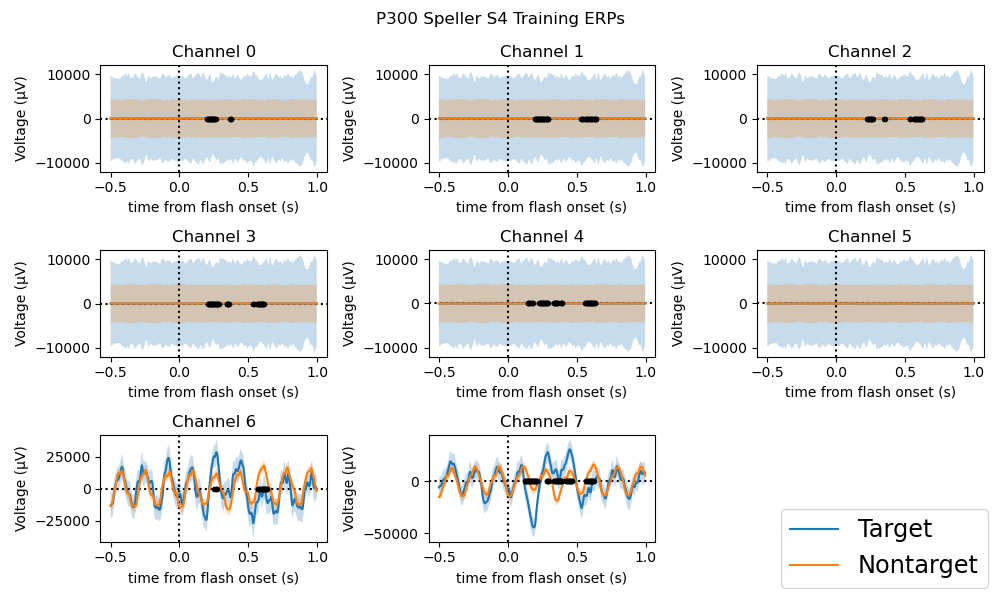
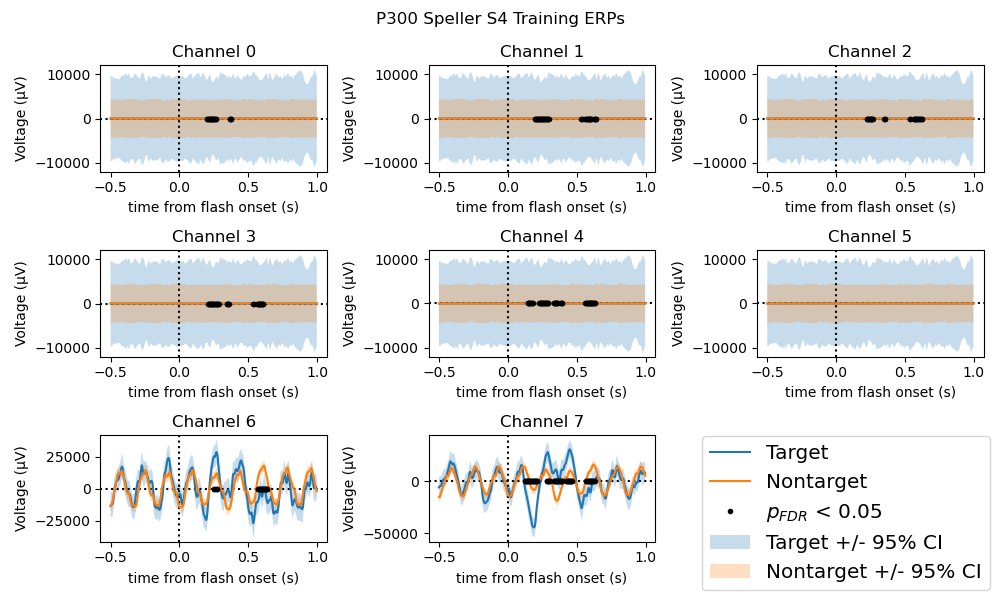
Significance data

Changed region(s): [[0.713, 0.72, 0.992, 0.99], [0.961, 0.84, 0.992, 0.87]]

diff --git a/plot_p300_data.py b/plot_p300_data.py
@@ -99,11 +99,11 @@ def plot_confidence_intervals(eeg_epochs, erp_times, target_erp, nontarget_erp, 
     
     # formatting
     figure.suptitle(f'P300 Speller S{subject} Training ERPs')
-    figure.legend(loc='lower right', fontsize='xx-large') # legend in space of nonexistent plot 9
+    figure.legend(loc='lower right', fontsize='x-large') # legend in space of nonexistent plot 9
     figure.tight_layout()  # stop axis labels overlapping titles
     
     # save image
-    plt.savefig(f'P300_S{subject}_channel_plots.png')  # save as image
+    plt.savefig(f'P300_S{subject}_channel_plots.png')
 
 #%% Part C: Bootstrap P Values
 
@@ -167,6 +167,8 @@ def plot_false_discovery_rate(eeg_epochs, erp_times, target_erp, nontarget_erp, 
     
     corrected_p_values = np.array(fdr_correction(p_values, alpha=fdr_threshold))
     
+    significant_times = [[] for _ in range(channel_count)]
+    
     # statistics calculated for given channel
     for channel_index in range(channel_count):
         
@@ -201,14 +203,16 @@ def plot_false_discovery_rate(eeg_epochs, erp_times, target_erp, nontarget_erp, 
         nontarget_handle, = channel_plot.plot(erp_times, nontarget_erp_transpose[channel_index])
         
         # generate times to plot
-        is_significant = np.array(np.where(corrected_p_values[0, :, channel_index] == 1))
-        significant_times = []
+        is_significant = np.array(np.where(corrected_p_values[0, :, channel_index] == 1)) # evaluate across all samples for a channel when  p_value < fdr_threshold is true
+        #significant_times = []
         for significant_index in is_significant[0]:
-            significant_times.append(erp_times[significant_index])
-        significant_count = len(np.array(significant_times))
+            #significant_times.append(erp_times[significant_index])
+            significant_times[channel_index].append(erp_times[significant_index])
+        significant_count = len(np.array(significant_times[channel_index]).T)
         
         # plot significant points
-        significance_handle, = channel_plot.plot(significant_times, np.zeros(significant_count), 'ko', markersize=3)
+        #significance_handle, = channel_plot.plot(significant_times, np.zeros(significant_count), 'ko', markersize=3)
+        significance_handle, = channel_plot.plot(np.array(significant_times[channel_index]), np.zeros(significant_count), 'ko', markersize=3)
         
         # plot confidence intervals
         target_confidence_interval_handle = channel_plot.fill_between(erp_times,target_erp_transpose[channel_index] - 2 * target_standard_error, target_erp_transpose[channel_index] + 2 * target_standard_error, alpha=0.25)
@@ -235,6 +239,8 @@ def plot_false_discovery_rate(eeg_epochs, erp_times, target_erp, nontarget_erp, 
     
     # save image
     plt.savefig(f'P300_S{subject}_channel_plots_with_significance.png')  # save as image
+    
+    return significant_times
 
 #%% Part E: Evaluate Across Subjects
 
@@ -250,7 +256,11 @@ def plot_false_discovery_rate(eeg_epochs, erp_times, target_erp, nontarget_erp, 
 # returns:
     # none?
 
-def multiple_subject_evaluation(subjects=np.arange(3,11), data_directory='P300Data/', epoch_start_time=-0.5, epoch_end_time=1.0, randomization_count=3000, fdr_threshold=0.05):
+def multiple_subject_evaluation(subjects=np.arange(3,11), data_directory='P300Data/', sample_count=384, channel_count=8, epoch_start_time=-0.5, epoch_end_time=1.0, randomization_count=3000, fdr_threshold=0.05):
+    
+    # preallocate array for editing with each subject
+    # set to empty list since necessary inputs obtained in subject loop for dynamic variables
+    subject_significance = np.zeros([channel_count, sample_count])
     
     for subject in subjects:
         
@@ -258,9 +268,6 @@ def multiple_subject_evaluation(subjects=np.arange(3,11), data_directory='P300Da
         is_target_event, eeg_epochs, erp_times, target_erp, nontarget_erp = load_erp_data(subject, data_directory, epoch_start_time, epoch_end_time)
         
         # bootstrapping
-        # declare necessary variables
-        sample_count = eeg_epochs.shape[1]
-        channel_count = eeg_epochs.shape[2]
 
         # preallocate arrays for resampled data 
         sampled_target_erp = np.zeros([randomization_count,sample_count,channel_count])
@@ -279,16 +286,60 @@ def multiple_subject_evaluation(subjects=np.arange(3,11), data_directory='P300Da
         p_values = calculate_p_values(sampled_target_erp, sampled_nontarget_erp,target_erp, nontarget_erp,randomization_count)
         
         # FDR correction and plotting
-        plot_false_discovery_rate(eeg_epochs, erp_times, target_erp, nontarget_erp, is_target_event, p_values, subject, fdr_threshold)
+        significant_times = plot_false_discovery_rate(eeg_epochs, erp_times, target_erp, nontarget_erp, is_target_event, p_values, subject, fdr_threshold)
         
-        # declare an array of zeros to determine significance
         # track number of subjects where a point in time is significant for each channel
         # do this with boolean indexing: true if the sample in time for that subject and channel is significant
         # use np.sum to track total, likely want (384,8) array
         # return the sum, take into next function
+        
+        # for significant_index in is_significant[0]:
+        #     significant_times.append(erp_times[significant_index])
+        # significant_count = len(np.array(significant_times))
+        
+        # add 1 to count at a sample index if a subject has a value for that time
+        # for a time in erp_times
+            # if that time is also in significant times
+                # add 1 to that time point in subject_significance
+        
+        for time_index in range(sample_count):
+            for channel_index in range(channel_count):
+                for i in range(len(significant_times[channel_index])):
+                    if significant_times[channel_index][i] == erp_times[time_index]:
+                        subject_significance[channel_index,time_index] = subject_significance[channel_index,time_index]+1
+                        
+    return erp_times, subject_significance
             
 
-#def subject_significance_plots():
+def plot_subject_significance(erp_times, subject_significance):
+    
+    channel_count = len(subject_significance)
+    
+    figure, channel_plots = plt.subplots(3,3, figsize=(10, 6), sharey=True)
+    
+    channel_plots[2][2].remove()  # only 8 channels, 9th plot unnecessary
+    
+    for channel_index in range(channel_count):
+        
+        row_index, column_index = divmod(channel_index, 3)  # wrap around to column 0 for every 3 plots
+        
+        channel_plot = channel_plots[row_index][column_index] # subplot
+        
+        channel_plot.plot(erp_times, subject_significance[channel_index])
+        
+        # label each plot's axes and channel number
+        channel_plot.set_title(f'Channel {channel_index}')
+        channel_plot.set_xlabel('time (s)')
+        channel_plot.set_ylabel('# subjects significant')
+        channel_plot.grid(True)
+    
+    # formatting
+    figure.suptitle('Number of Significant Subjects by Channel')
+    figure.tight_layout()  # stop axis labels overlapping titles
+    
+    # save image
+    plt.savefig('subject_significance_channel_plots.png')  
+        
 
 #%% Part F: Plot a Spatial Map
 

diff --git a/test_plot_p300_data.py b/test_plot_p300_data.py
@@ -9,7 +9,7 @@ Created on Tue Feb 13 10:03:54 2024
 #%% Import functions to be called
 
 import numpy as np
-from plot_p300_data import load_erp_data, plot_confidence_intervals, bootstrap_erps, test_statistic, calculate_p_values, plot_false_discovery_rate, multiple_subject_evaluation, plot_spatial_map
+from plot_p300_data import load_erp_data, plot_confidence_intervals, bootstrap_erps, test_statistic, calculate_p_values, plot_false_discovery_rate, multiple_subject_evaluation, plot_subject_significance, plot_spatial_map
 
 #%% Load data
 
@@ -48,10 +48,12 @@ p_values = calculate_p_values(sampled_target_erp, sampled_nontarget_erp,target_e
 
 #%% FDR correction
 
-plot_false_discovery_rate(eeg_epochs, erp_times, target_erp, nontarget_erp, is_target_event, p_values, subject=3, fdr_threshold = 0.05)
+significant_times = plot_false_discovery_rate(eeg_epochs, erp_times, target_erp, nontarget_erp, is_target_event, p_values, subject=3, fdr_threshold = 0.05)
 
 #%% Multiple subjects comparison
-#multiple_subject_evaluation(subjects=np.arange(3,11), data_directory='P300Data/', epoch_start_time=-0.5, epoch_end_time=1.0, randomization_count=3000)
+subject_significance = multiple_subject_evaluation(subjects=np.arange(3,11), data_directory='P300Data/', sample_count=384, channel_count=8, epoch_start_time=-0.5, epoch_end_time=1.0, randomization_count=3000, fdr_threshold=0.05)
+
+plot_subject_significance(erp_times, subject_significance)
 
 #%% Spatial map
 
